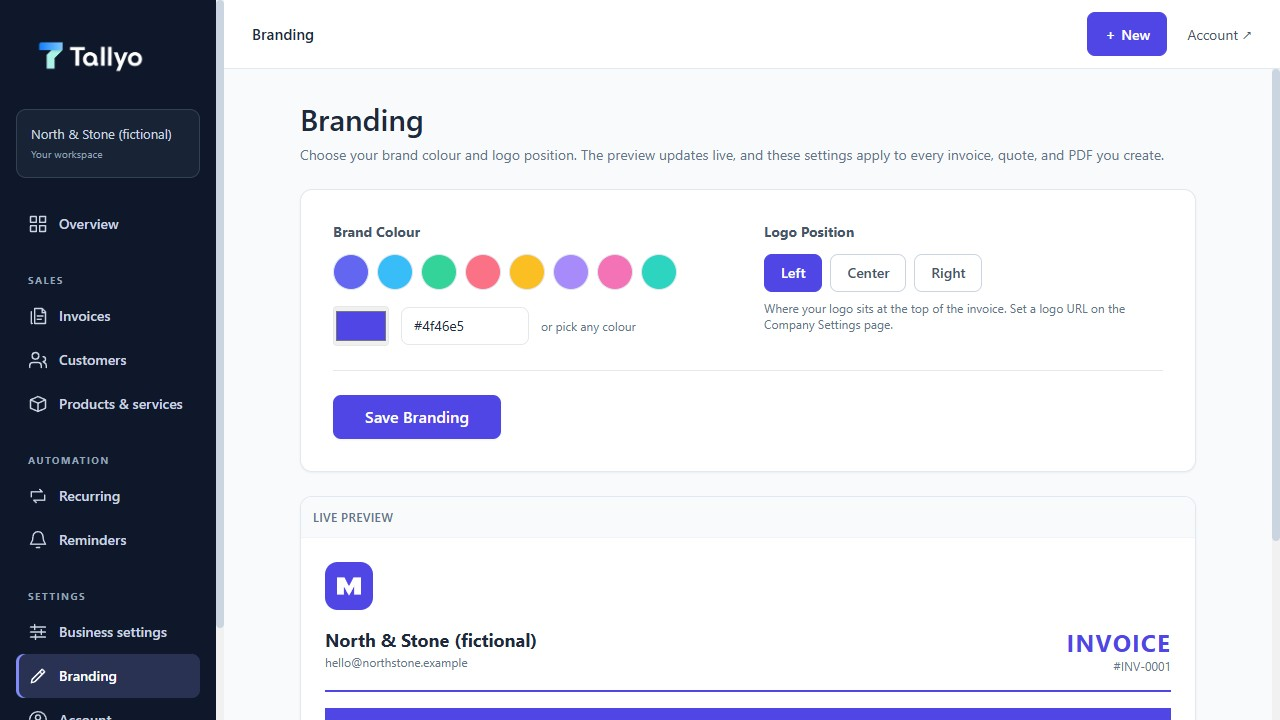
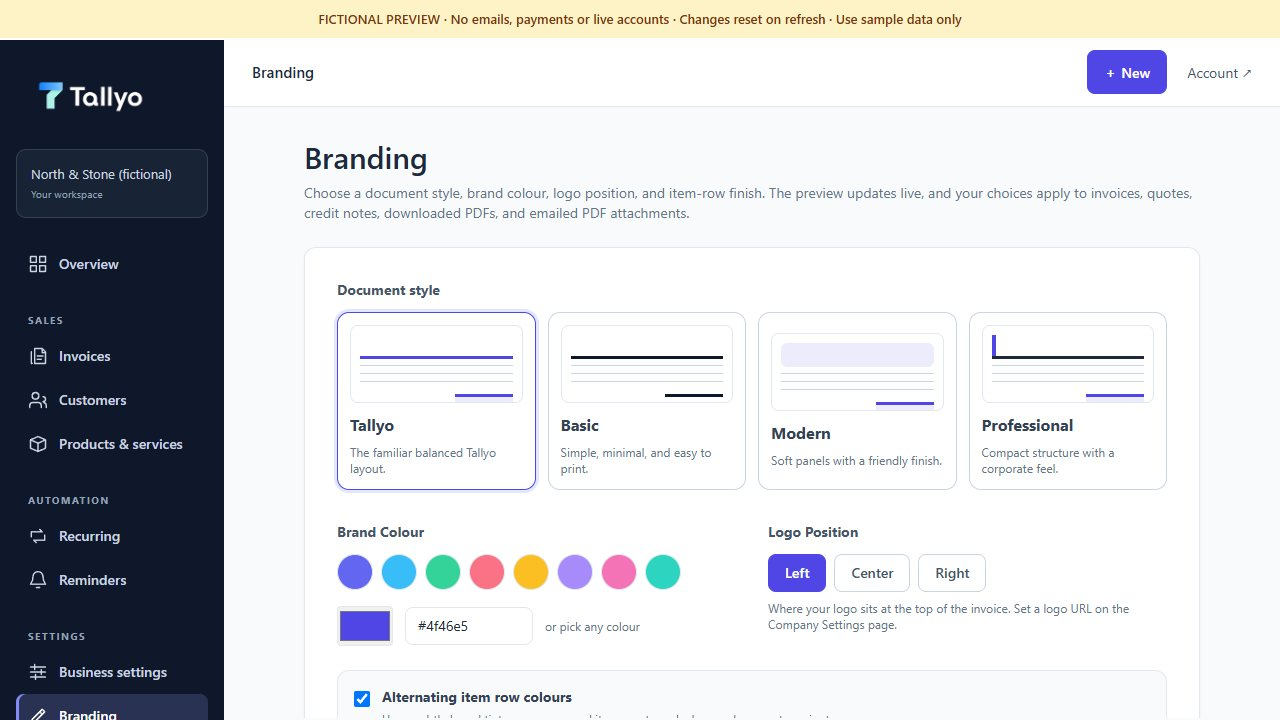
Refresh overview email and invoice PDF output

diff --git a/website/src/styles.css b/website/src/styles.css
@@ -882,14 +882,16 @@ main > .section:last-of-type{margin-bottom:var(--layout-gap)}
 }
 
 @media print {
-  @page { size: A4 portrait; margin: 12mm; }
-  .preview-banner, .site-header, .site-footer, .helper-widget, .section-cta, .generator-hero, .generator-editor, .generator-conversion-dialog, .preview-label, .preview-scroll-hint { display: none !important; }
-  body { background: var(--white); color: #000; }
-  .section, .page-hero { width: 100%; padding: 1rem 0; }
-  .generator-shell { display: block; width: 100%; margin: 0; }
-  .generator-preview-wrap { position: static; }
-  .generator-preview { width: 100%; min-height: 0; padding: 0; overflow: visible; border: 0; border-radius: 0; box-shadow: none; }
-  .preview-table-wrap { overflow: visible; }
-  .generator-preview table { min-width: 0; font-size: 8pt; }
-  .generator-preview th, .generator-preview td { padding: 5pt 3pt; }
+  @page{size:A4 portrait;margin:0}
+  .skip-link,.preview-banner,.site-header,.site-footer,.helper-widget,.generator-editor,.generator-conversion-dialog,.generator-preview-heading{display:none!important}
+  html,body{margin:0;color:#000}
+  body{print-color-adjust:exact;-webkit-print-color-adjust:exact}
+  main{overflow:visible}
+  main > *:not(.generator-shell){display:none!important}
+  .generator-shell{display:block;width:100%;margin:0}
+  .generator-preview-wrap{position:static;overflow:visible}
+  .generator-preview{width:100%;min-height:0;padding:12mm;overflow:visible;border:0;border-radius:0;box-shadow:none}
+  .preview-table-wrap{overflow:visible}
+  .generator-preview table{min-width:0;font-size:8pt}
+  .generator-preview th,.generator-preview td{padding:5pt 3pt}
 }

diff --git a/website/src/generator.js b/website/src/generator.js
@@ -221,7 +221,7 @@ for (const root of roots) {
     try {
       if (root.dataset.defaultType === "Invoice") emitAnalyticsEvent("download_invoice");
       window.print();
-      status.textContent = "Your browser's PDF save window opened. Choose ‘Save as PDF’ to finish the download.";
+      status.textContent = "Your browser's PDF save window opened. Choose ‘Save as PDF’ and switch off ‘Headers and footers’ if your browser shows that option.";
     } catch {
       status.textContent = "The PDF save window could not open. Try Continue download again.";
     }
